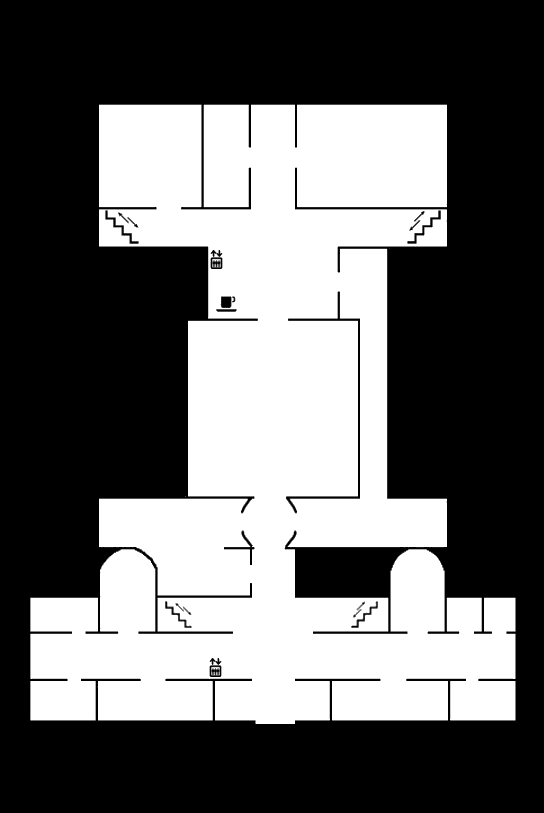
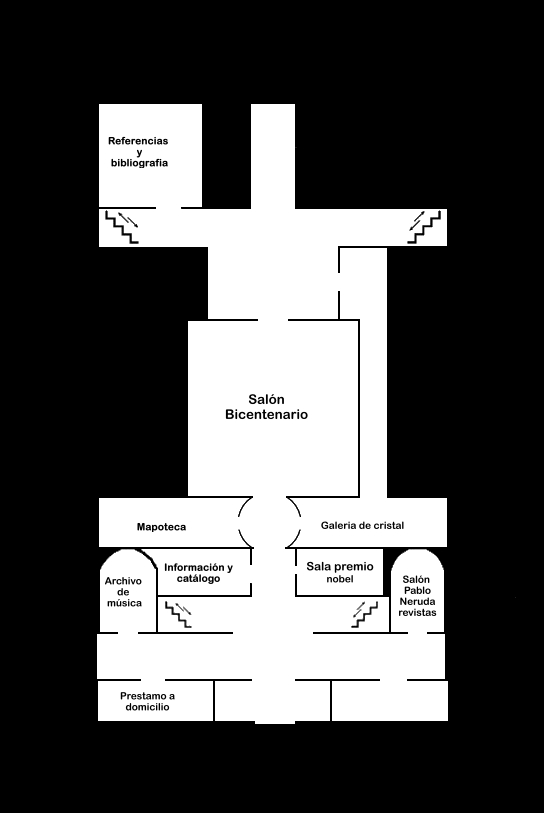
actulizacion de piso -1, 1, 2 y eliminacion de los pisos 3 y 4

diff --git a/reporte/templates/home.html b/reporte/templates/home.html
@@ -18,12 +18,6 @@
             <li>
                 <a href="{% url 'piso2' %}" class?"button">Ir a piso 2</a>
             </li>
-            <li>
-                <a href="{% url 'piso3' %}" class?"button">Ir a piso 3</a>
-            </li>
-            <li>
-                <a href="{% url 'piso4' %}" class?"button">Ir a piso 4</a>
-            </li>
             
             
         </ul>

diff --git a/reporte/templates/postlogin.html b/reporte/templates/postlogin.html
@@ -15,13 +15,6 @@
         <li>
             <a href="{% url 'piso2' %}" class?"button">Ir a piso 2</a>
         </li>
-        <li>
-            <a href="{% url 'piso3' %}" class?"button">Ir a piso 3</a>
-        </li>
-        <li>
-            <a href="{% url 'piso4' %}" class?"button">Ir a piso 4</a>
-        </li>
-        
-        
+
     </ul>
 </nav>

diff --git a/reporte/templates/mapa/piso2.html b/reporte/templates/mapa/piso2.html
@@ -6,8 +6,7 @@
     <div class="button">
         <a href="{% url 'piso-1' %}" class?"button">Piso -1</a>
         <a href="{% url 'piso1' %}" class?"button">Piso 1</a>
-        <a href="{% url 'piso3' %}" class?"button">Piso 3</a>
-        <a href="{% url 'piso4' %}" class?"button">Piso 4</a>
+
     </div>
     {% endblock %}
        

diff --git a/reporte/templates/mapa/piso1.html b/reporte/templates/mapa/piso1.html
@@ -6,8 +6,7 @@
     <div class="button">
         <a href="{% url 'piso-1' %}" class?"button">Piso -1</a>
         <a href="{% url 'piso2' %}" class?"button">Piso 2</a>
-        <a href="{% url 'piso3' %}" class?"button">Piso 3</a>
-        <a href="{% url 'piso4' %}" class?"button">Piso 4</a>
+
     </div>
 {% endblock %}
        

diff --git a/reporte/templates/mapa/piso-1.html b/reporte/templates/mapa/piso-1.html
@@ -6,7 +6,6 @@
     <div class="button">
         <a href="{% url 'piso1' %}" class?"button">Piso 1</a>
         <a href="{% url 'piso2' %}" class?"button">Piso 2</a>
-        <a href="{% url 'piso3' %}" class?"button">Piso 3</a>
-        <a href="{% url 'piso4' %}" class?"button">Piso 4</a>
+
     </div>
 {% endblock %}

diff --git a/reporte/urls.py b/reporte/urls.py
@@ -7,8 +7,6 @@ urlpatterns = [
     path('piso-1/', views.mapa_piso0, name='piso-1'),
     path('piso1/', views.mapa_piso1, name='piso1'),
     path('piso2/', views.mapa_piso2, name='piso2'),
-    path('piso3/', views.mapa_piso3, name='piso3'),
-    path('piso4/', views.mapa_piso4, name='piso4'),
     path('registrar/', registrar, name='registro'),
     path('login/', auth_views.LoginView.as_view(template_name='login.html', success_url='/postlogin/'), name='login'),
     path('logout/', auth_views.LogoutView.as_view(), name='logout'),

diff --git a/mapareportes/urls.py b/mapareportes/urls.py
@@ -29,7 +29,5 @@ urlpatterns = [
     path('reportes/<int:id>/borrar_reporte', views.borrar_reporte, name='borrar_reporte'),
     path('piso-1/', views.mapa_piso0, name='piso-1'),
     path('piso1/', views.mapa_piso1, name='piso1'),
-    path('piso2/', views.mapa_piso2, name='piso2'),
-    path('piso4/', views.mapa_piso4, name='piso4'),
-        
+    path('piso2/', views.mapa_piso2, name='piso2'),        
 ]

diff --git a/reporte/views.py b/reporte/views.py
@@ -52,10 +52,6 @@ def mapa_piso1(request):
     return render(request,'mapa/piso1.html')
 def mapa_piso2(request):
     return render(request,'mapa/piso2.html')
-def mapa_piso3(request):
-    return render(request,'mapa/piso3.html')
-def mapa_piso4(request):
-    return render(request,'mapa/piso4.html')
 def mapa_piso0(request):
     return render(request,'mapa/piso-1.html')
 
